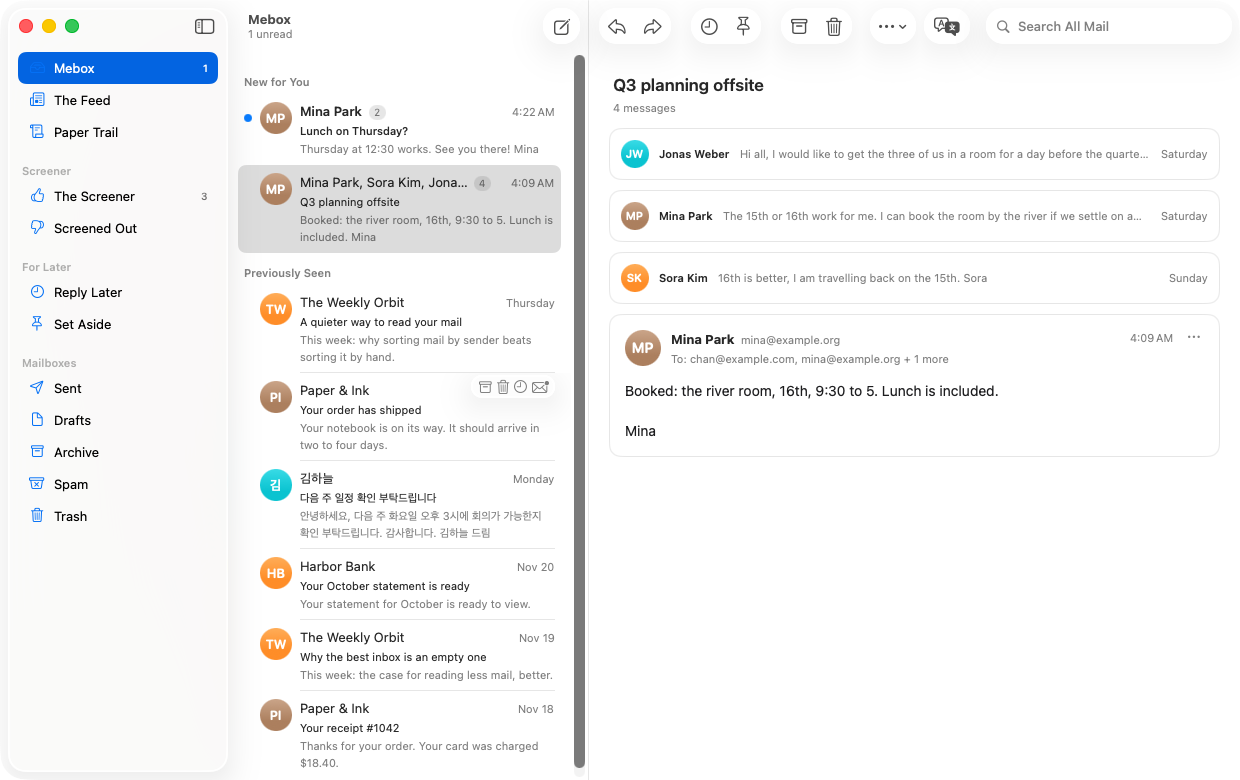
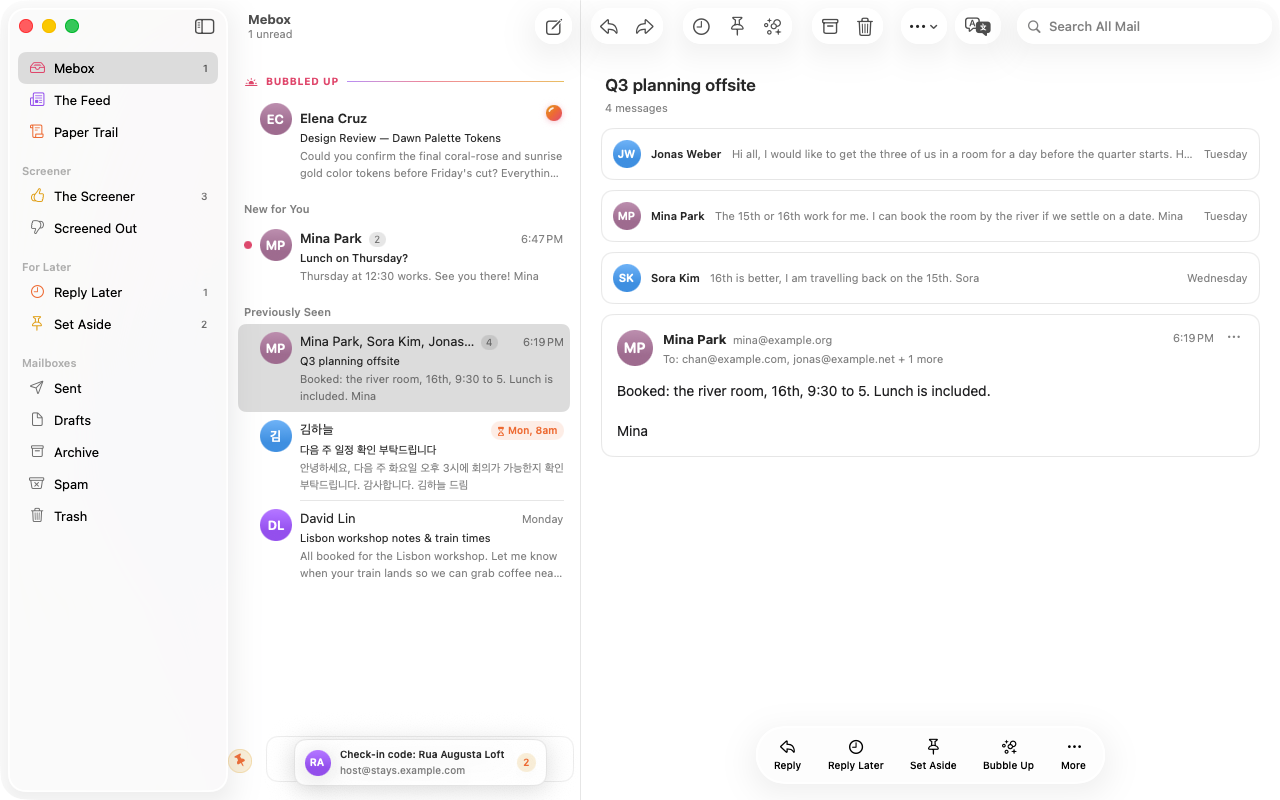
Update macOS screenshots for Dawn theme and polish macOS 26 tinting
- Refresh docs/mac-mebox.png, docs/mac-screener.png, and docs/mac-privacy.png with the Dawn theme, Bubbled Up, Set Aside pile, and floating ThreadActionDock.
- Add docs/mac-bubbleup.png and docs/mac-feed.png and showcase them in README.md.
- Fix macOS 26 sidebar icon semantic colors and keep More menus and secondary Screener actions neutral monochrome instead of inheriting the global Dawn rose tint.

diff --git a/App/Features/Shell/SidebarView.swift b/App/Features/Shell/SidebarView.swift
@@ -85,15 +85,16 @@ struct SidebarView: View {
 
     private func row(_ listing: Listing) -> some View {
         let presentation = ListingPresentation(listing, directory: workspace.directory)
-        let itemTint: ListItemTint = if let color = HeydayTheme.sidebarTint(for: listing) {
-            .fixed(color)
-        } else {
-            .monochrome
+        let semanticTint = HeydayTheme.sidebarTint(for: listing)
+        return Label {
+            Text(presentation.title)
+        } icon: {
+            Image(systemName: presentation.symbol)
+                .foregroundStyle(semanticTint ?? .secondary)
         }
-        return Label(presentation.title, systemImage: presentation.symbol)
-            .listItemTint(itemTint)
-            .badge(workspace.badge(for: listing))
-            .tag(listing)
+        .listItemTint(semanticTint.map { .fixed($0) } ?? .monochrome)
+        .badge(workspace.badge(for: listing))
+        .tag(listing)
     }
 
     /// A mailbox as the server has it. Two can share a name (a folder and a label,

diff --git a/App/Features/Listing/ScreenerList.swift b/App/Features/Listing/ScreenerList.swift
@@ -137,10 +137,14 @@ struct ScreenerBanner: View {
     private var answersByName: some View {
         HStack(spacing: 6) {
             Button("Screen Out", systemImage: "hand.thumbsdown") { onDecide(.screenedOut) }
+                .tint(.primary)
             Button("Paper Trail", systemImage: "scroll") { onDecide(.approved(.paperTrail)) }
+                .tint(.primary)
             Button("The Feed", systemImage: "newspaper") { onDecide(.approved(.feed)) }
+                .tint(.primary)
             Button("Yes", systemImage: "hand.thumbsup.fill") { onDecide(.approved(.mebox)) }
                 .buttonStyle(.borderedProminent)
+                .tint(HeydayTheme.rose)
                 .help("Yes: deliver their email to Mebox")
         }
         .buttonBorderShape(.capsule)

diff --git a/App/Features/Thread/ThreadView.swift b/App/Features/Thread/ThreadView.swift
@@ -420,9 +420,11 @@ private struct DockMoreMenu: View {
             .contentShape(Capsule())
         }
         #if os(macOS)
-        .menuStyle(.borderlessButton)
+        .menuStyle(.button)
+        .buttonStyle(.plain)
         .menuIndicator(.hidden)
         #endif
+        .tint(.primary)
         .fixedSize()
         .onHover { isHovering = $0 }
         .motion(Motion.response, value: isHovering)

diff --git a/App/Features/Thread/ConversationToolbar.swift b/App/Features/Thread/ConversationToolbar.swift
@@ -126,6 +126,7 @@ struct ConversationToolbar: ToolbarContent {
             Menu("More", systemImage: "ellipsis") {
                 ConversationMenu(workspace: workspace, conversations: conversations)
             }
+            .tint(.primary)
             .help("More actions")
             .disabled(conversations.isEmpty)
         }

diff --git a/README.md b/README.md
@@ -23,7 +23,7 @@
 </p>
 
 <p align="center">
-  <img src="docs/mac-mebox.png" alt="Heyday on macOS showing Mebox and a folded conversation" width="900" />
+  <img src="docs/mac-mebox.png" alt="Heyday on macOS showing Mebox with Bubbled Up, Set Aside pile, folded conversation, and floating action dock" width="900" />
 </p>
 
 Point Heyday at any IMAP/SMTP account — iCloud, Gmail, Fastmail, or a self-hosted server. On the Mac it also includes a one-click preset for **Proton Mail Bridge**.
@@ -129,6 +129,14 @@ IMAP has folders and flags, and nothing else. The rest is this app's doing:
 
 <p align="center">
   <img src="docs/mac-screener.png" alt="The Screener on macOS showing waiting senders and one-click delivery decisions" width="900" />
+</p>
+
+<p align="center">
+  <img src="docs/mac-bubbleup.png" alt="Native SwiftUI Bubble Up scheduler popover over the floating thread action dock" width="900" />
+</p>
+
+<p align="center">
+  <img src="docs/mac-feed.png" alt="The Feed on macOS rendering newsletters as an open full-width card stream with New Since You Last Visited divider" width="900" />
 </p>
 
 The Screener only looks at mail that arrives after the account is added. Whatever the
